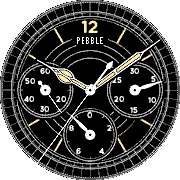
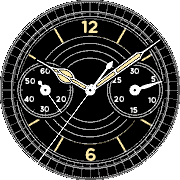
change c/c2 screenshot 5

Changed region(s): [[0.3333, 0.5833, 0.6667, 0.9167], [0.3889, 0.1944, 0.6111, 0.2778]]

diff --git a/src/config_options.c b/src/config_options.c
@@ -249,7 +249,7 @@ static void int_to_config() {
       WNM_mon_4, false
     },
 
-#elif PERSIST_KEY == 0x5151 + 0xc7 ||  PERSIST_KEY == 0x5151 + 0xca   // Rosewright Chronograph
+#elif PERSIST_KEY == 0x5151 + 0xc7 ||  PERSIST_KEY == 0x5151 + 0xca   // Rosewright C & Rosewright Chronograph
     { IM_always, IM_always, true, false,
       true, 0, CDM_off, false,
       0, 0,
@@ -271,6 +271,14 @@ static void int_to_config() {
       0, 0,
       { DWM_off, DWM_off },
       true, false, 3, TSM_pebble_label,
+      WNM_mon_4, false
+    },
+
+    { IM_off, IM_off, true, false,
+      true, 0, CDM_off, false,
+      0, 0,
+      { DWM_off, DWM_off },
+      true, false, 0, TSM_off,
       WNM_mon_4, false
     },
 
